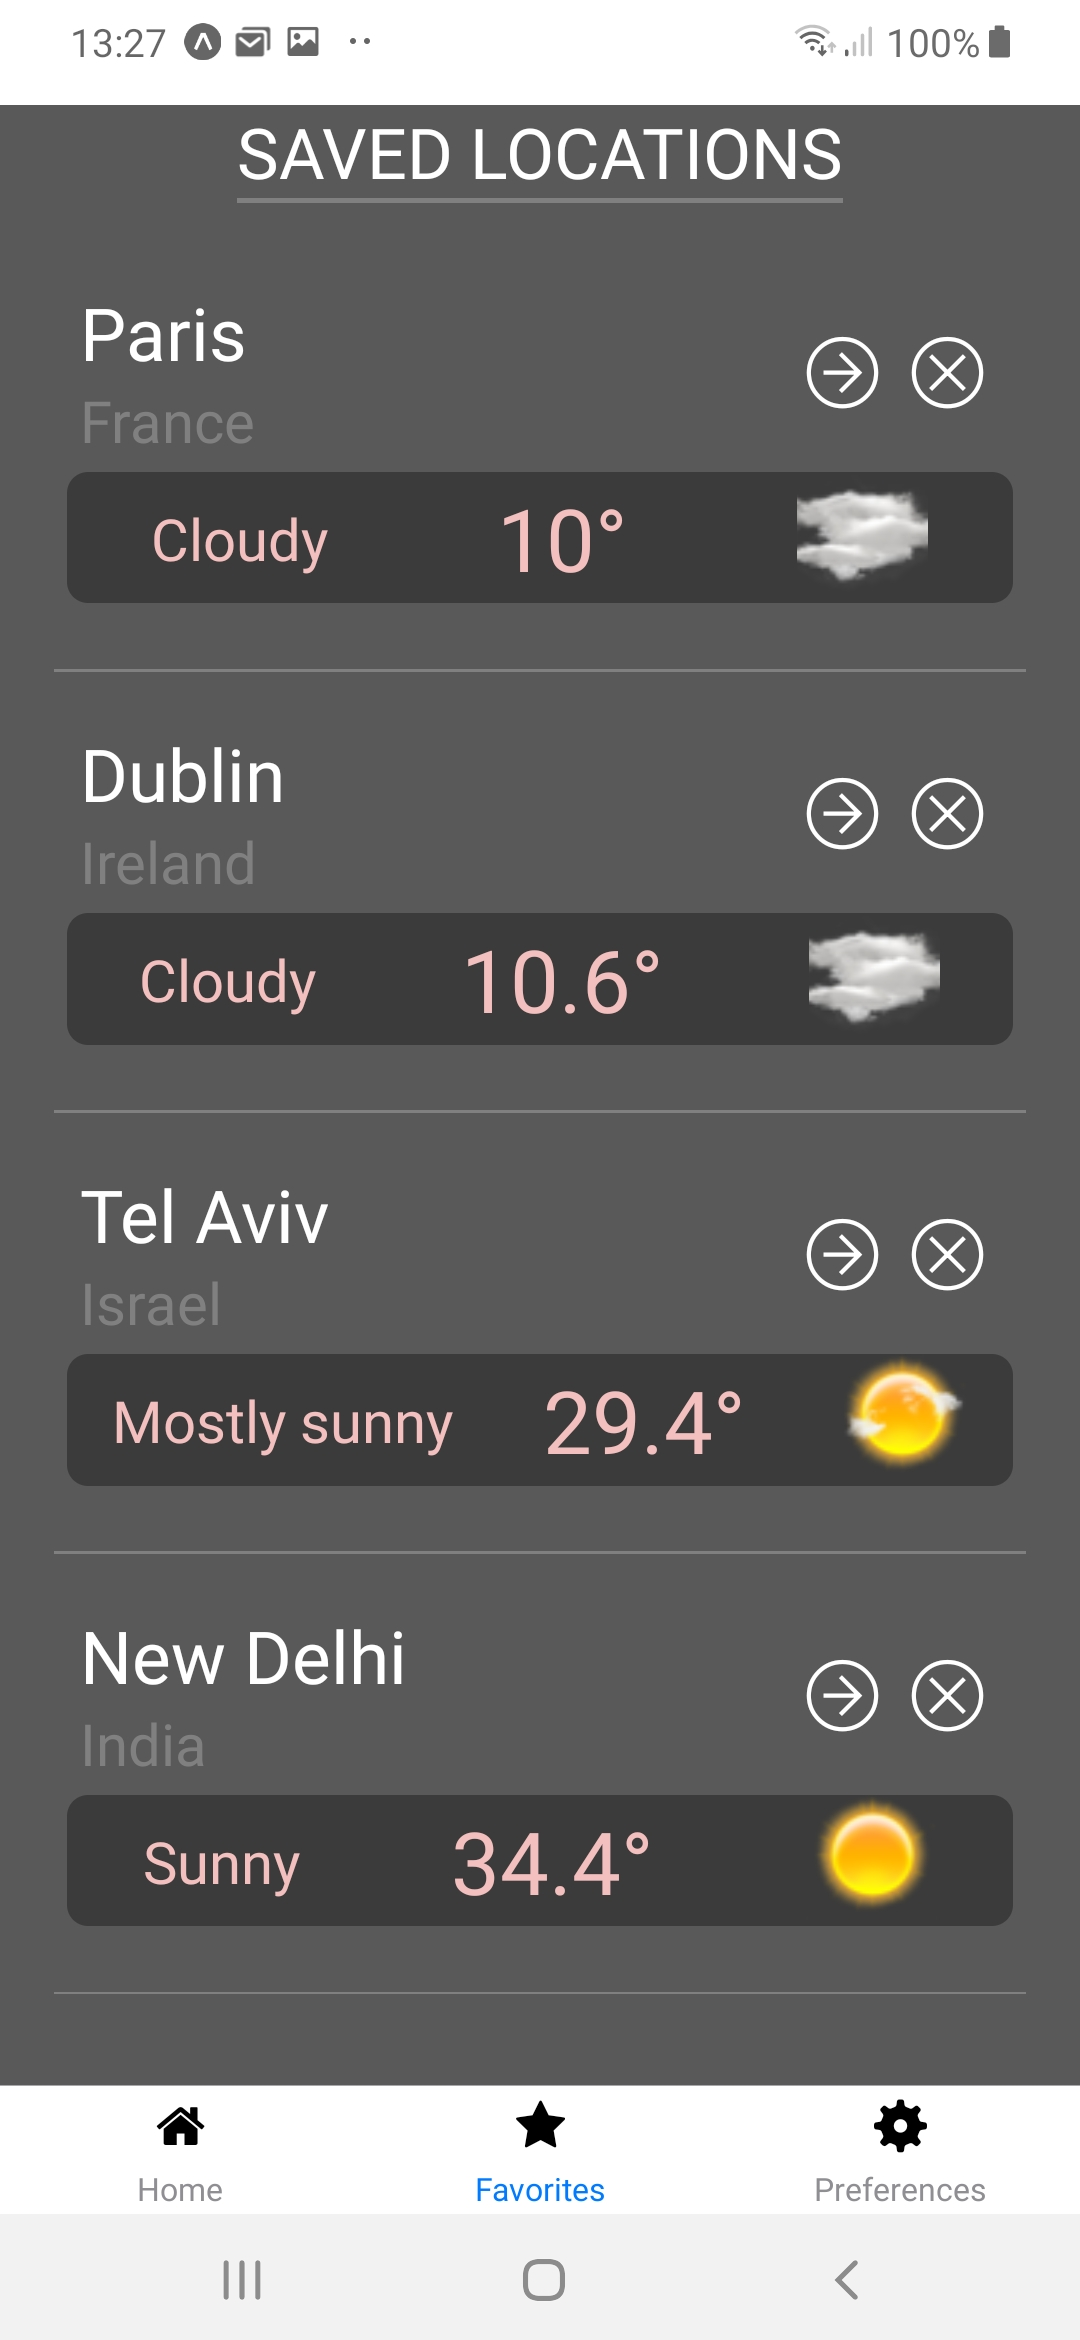
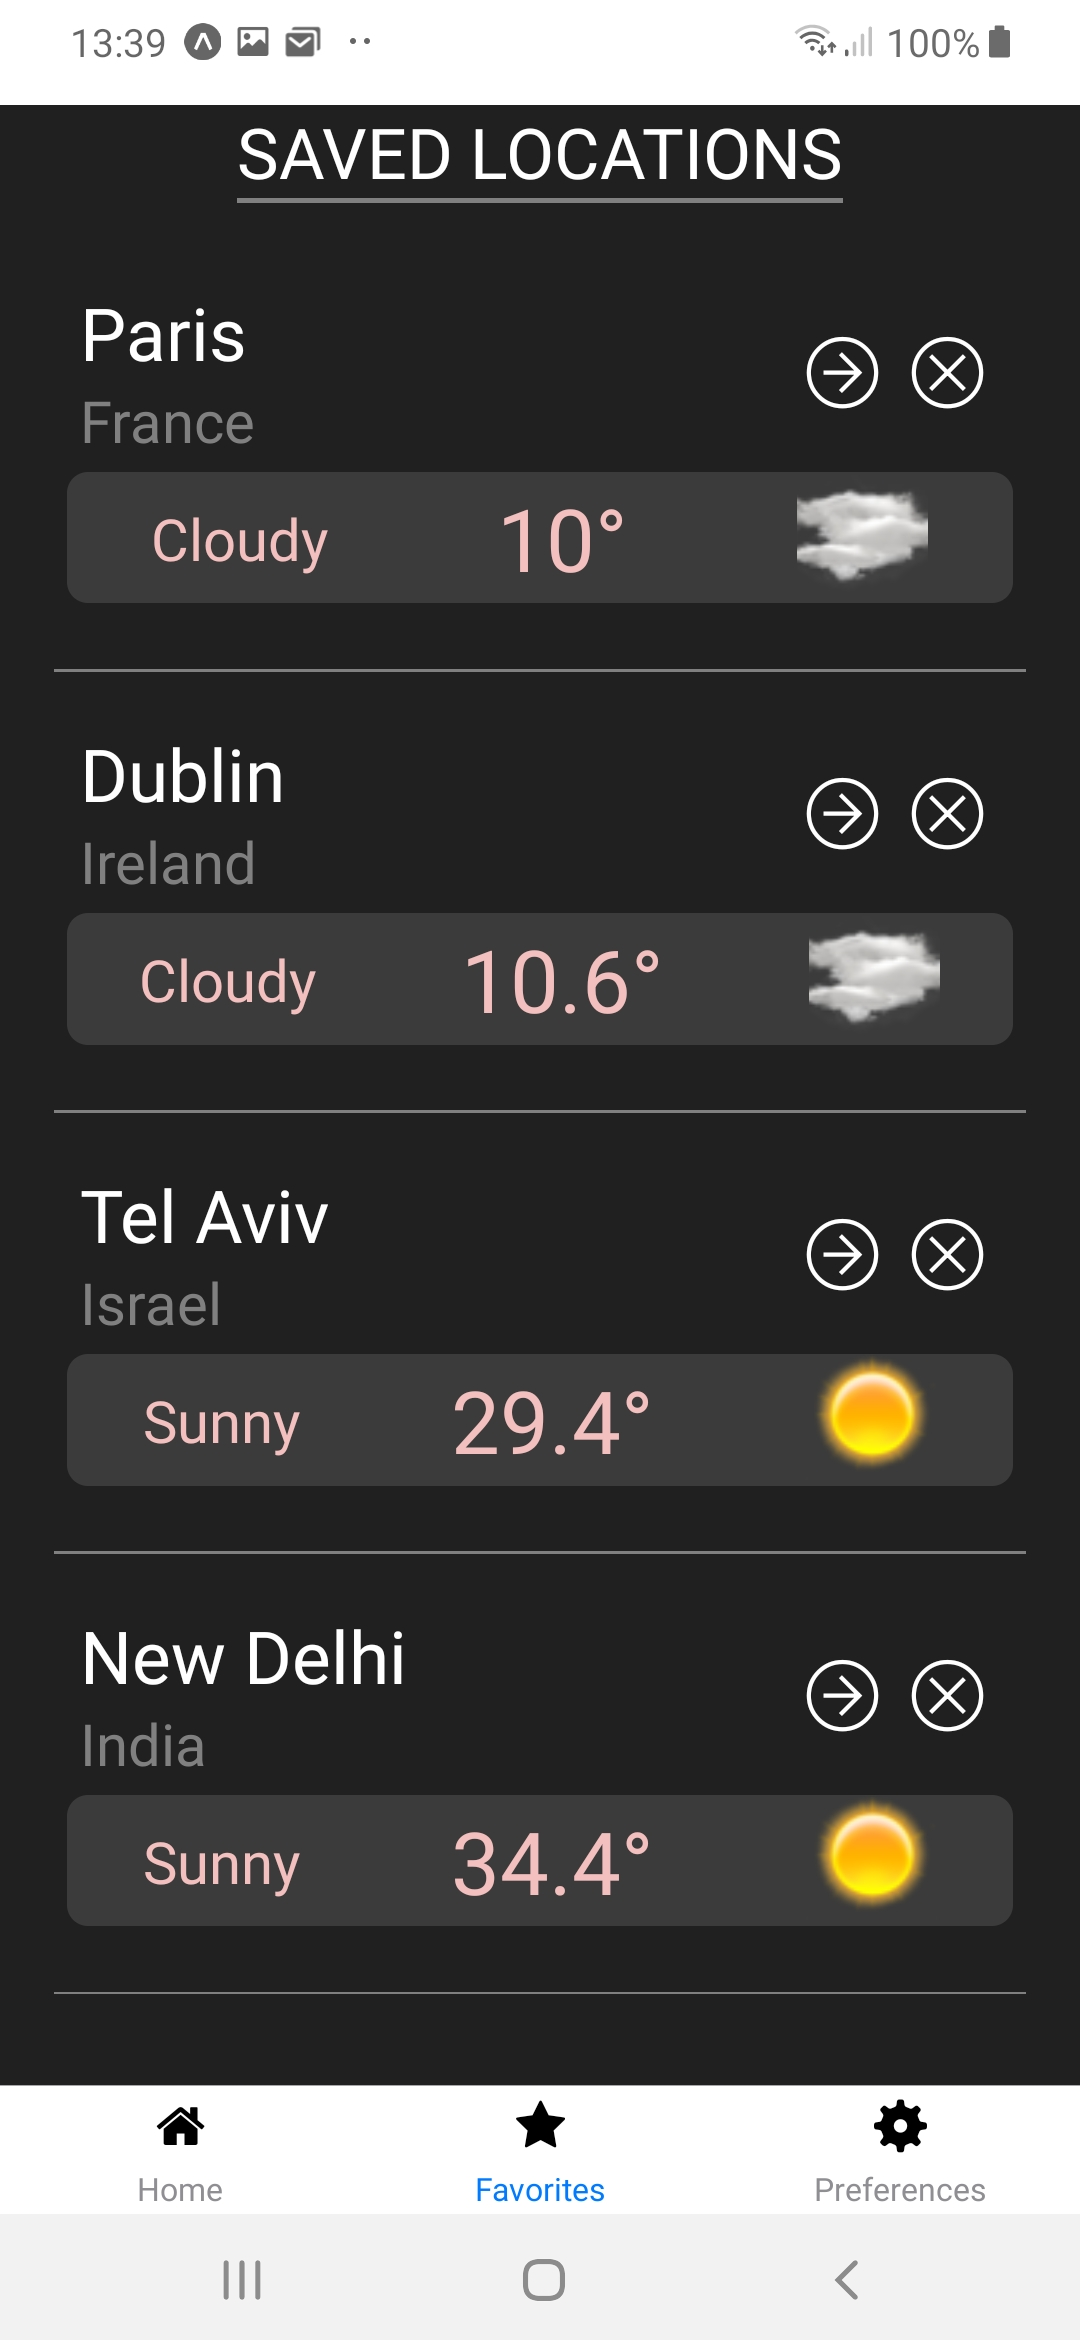
screenshots

diff --git a/src/resources/index.js b/src/resources/index.js
@@ -66,7 +66,7 @@ const theme2 = {
     borders: 'gray',
     favoritesBottomBackground: '#3B3B3B',
     favoritesButton: 'white',
-    favoritesBackground: '#595959'
+    favoritesBackground: '#202020'
 
 }
 
